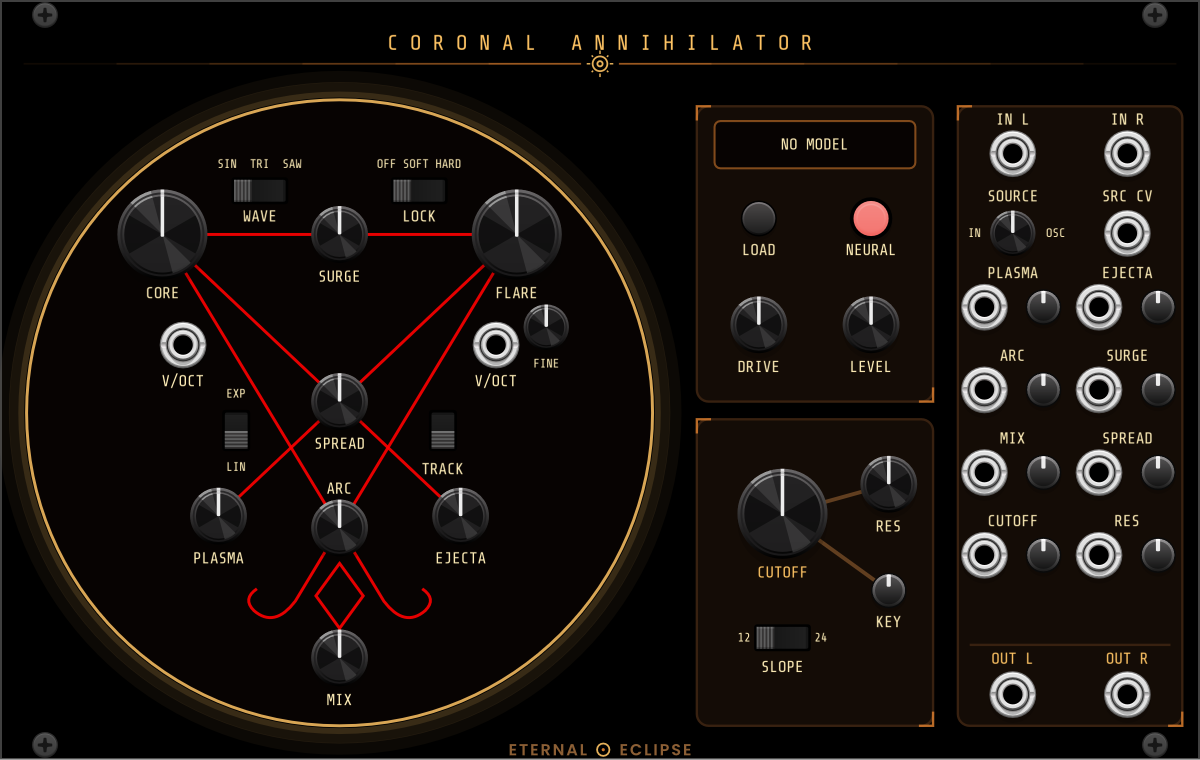
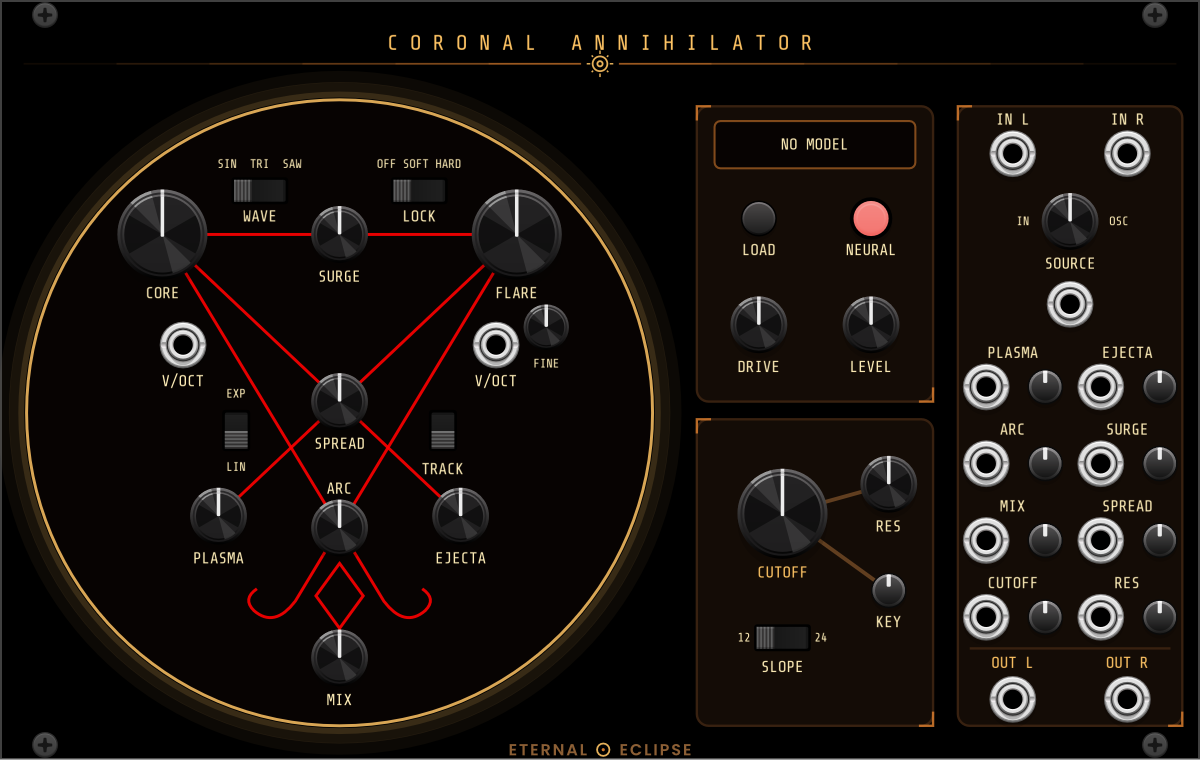
Coronal Annihilator: bay layout — SOURCE knob centered, CV beneath, rows closed up (OMN-87)
SOURCE is now a regular knob on the bay axis between the inputs with
its CV jack stacked under the label; the four CV rows re-space to
13 mm so the last row meets the output separator (no dead gap before
OUT L/R, which move to the content floor). Jack/trimpot pair offsets
-4.5/+5.5 center each pair's bounding box on its column, in line with
the IN/OUT jacks.

Changed region(s): [[0.8017, 0.2421, 0.9867, 0.9684]]

diff --git a/src/CoronalAnnihilator/CoronalAnnihilator.cpp b/src/CoronalAnnihilator/CoronalAnnihilator.cpp
@@ -497,7 +497,9 @@ struct CoronalAnnihilatorWidget : ModuleWidget {
 	static constexpr float NX_L = 128.5f, NX_R = 147.5f;
 	// Patch bay column centers and jack/attenuverter pair offsets
 	static constexpr float BAY_XL = 171.5f, BAY_XR = 190.9f;
-	static constexpr float JACK_DX = -4.8f, ATT_DX = 5.2f;
+	// Jack (r 4.01) and trimpot (r 3.02) offsets chosen so the pair's
+	// bounding box is centered on the column axis
+	static constexpr float JACK_DX = -4.5f, ATT_DX = 5.5f;
 
 	void addLabel(Vec mmPos, const std::string& text, float fontSize = eclipse::LABEL_SIZE,
 	              NVGcolor color = eclipse::LABEL_COLOR) {
@@ -600,14 +602,16 @@ struct CoronalAnnihilatorWidget : ModuleWidget {
 		addLabel(Vec(BAY_XR, 20.3f), "IN R");
 		addInput(createInputCentered<PJ301MPort>(mm2px(Vec(BAY_XL, 26.f)), module, CoronalAnnihilator::INL_INPUT));
 		addInput(createInputCentered<PJ301MPort>(mm2px(Vec(BAY_XR, 26.f)), module, CoronalAnnihilator::INR_INPUT));
-		addLabel(Vec(BAY_XL, 33.3f), "SOURCE");
-		addLabel(Vec(165.f, 39.5f), "IN", eclipse::FINE_SIZE);
-		addParam(createParamCentered<RoundSmallBlackKnob>(mm2px(Vec(BAY_XL, 39.5f)), module, CoronalAnnihilator::SOURCE_PARAM));
-		addLabel(Vec(178.8f, 39.5f), "OSC", eclipse::FINE_SIZE);
-		addLabel(Vec(BAY_XR, 33.3f), "SRC CV");
-		addInput(createInputCentered<PJ301MPort>(mm2px(Vec(BAY_XR, 39.5f)), module, CoronalAnnihilator::SOURCE_INPUT));
+		// SOURCE blend on the bay axis between the inputs, its CV jack stacked
+		// directly beneath the label
+		static const float BAY_CX = 0.5f * (BAY_XL + BAY_XR);
+		addLabel(Vec(173.2f, 37.5f), "IN", eclipse::FINE_SIZE);
+		addParam(createParamCentered<RoundBlackKnob>(mm2px(Vec(BAY_CX, 37.5f)), module, CoronalAnnihilator::SOURCE_PARAM));
+		addLabel(Vec(189.5f, 37.5f), "OSC", eclipse::FINE_SIZE);
+		addLabel(Vec(BAY_CX, 44.7f), "SOURCE");
+		addInput(createInputCentered<PJ301MPort>(mm2px(Vec(BAY_CX, 51.5f)), module, CoronalAnnihilator::SOURCE_INPUT));
 
-		static const float ROW_Y[4] = {52.f, 66.f, 80.f, 94.f};
+		static const float ROW_Y[4] = {65.5f, 78.5f, 91.5f, 104.5f};
 		struct BayEntry {
 			const char* label;
 			int inputId;
@@ -632,10 +636,10 @@ struct CoronalAnnihilatorWidget : ModuleWidget {
 			addCvPair(BAY_XR, ROW_Y[i], RIGHT[i].inputId, RIGHT[i].attId, module);
 		}
 
-		addLabel(Vec(BAY_XL, 111.6f), "OUT L", eclipse::LABEL_SIZE, eclipse::ACCENT_COLOR);
-		addLabel(Vec(BAY_XR, 111.6f), "OUT R", eclipse::LABEL_SIZE, eclipse::ACCENT_COLOR);
-		addOutput(createOutputCentered<PJ301MPort>(mm2px(Vec(BAY_XL, 117.6f)), module, CoronalAnnihilator::OUTL_OUTPUT));
-		addOutput(createOutputCentered<PJ301MPort>(mm2px(Vec(BAY_XR, 117.6f)), module, CoronalAnnihilator::OUTR_OUTPUT));
+		addLabel(Vec(BAY_XL, 112.3f), "OUT L", eclipse::LABEL_SIZE, eclipse::ACCENT_COLOR);
+		addLabel(Vec(BAY_XR, 112.3f), "OUT R", eclipse::LABEL_SIZE, eclipse::ACCENT_COLOR);
+		addOutput(createOutputCentered<PJ301MPort>(mm2px(Vec(BAY_XL, 118.4f)), module, CoronalAnnihilator::OUTL_OUTPUT));
+		addOutput(createOutputCentered<PJ301MPort>(mm2px(Vec(BAY_XR, 118.4f)), module, CoronalAnnihilator::OUTR_OUTPUT));
 	}
 
 	void step() override {
